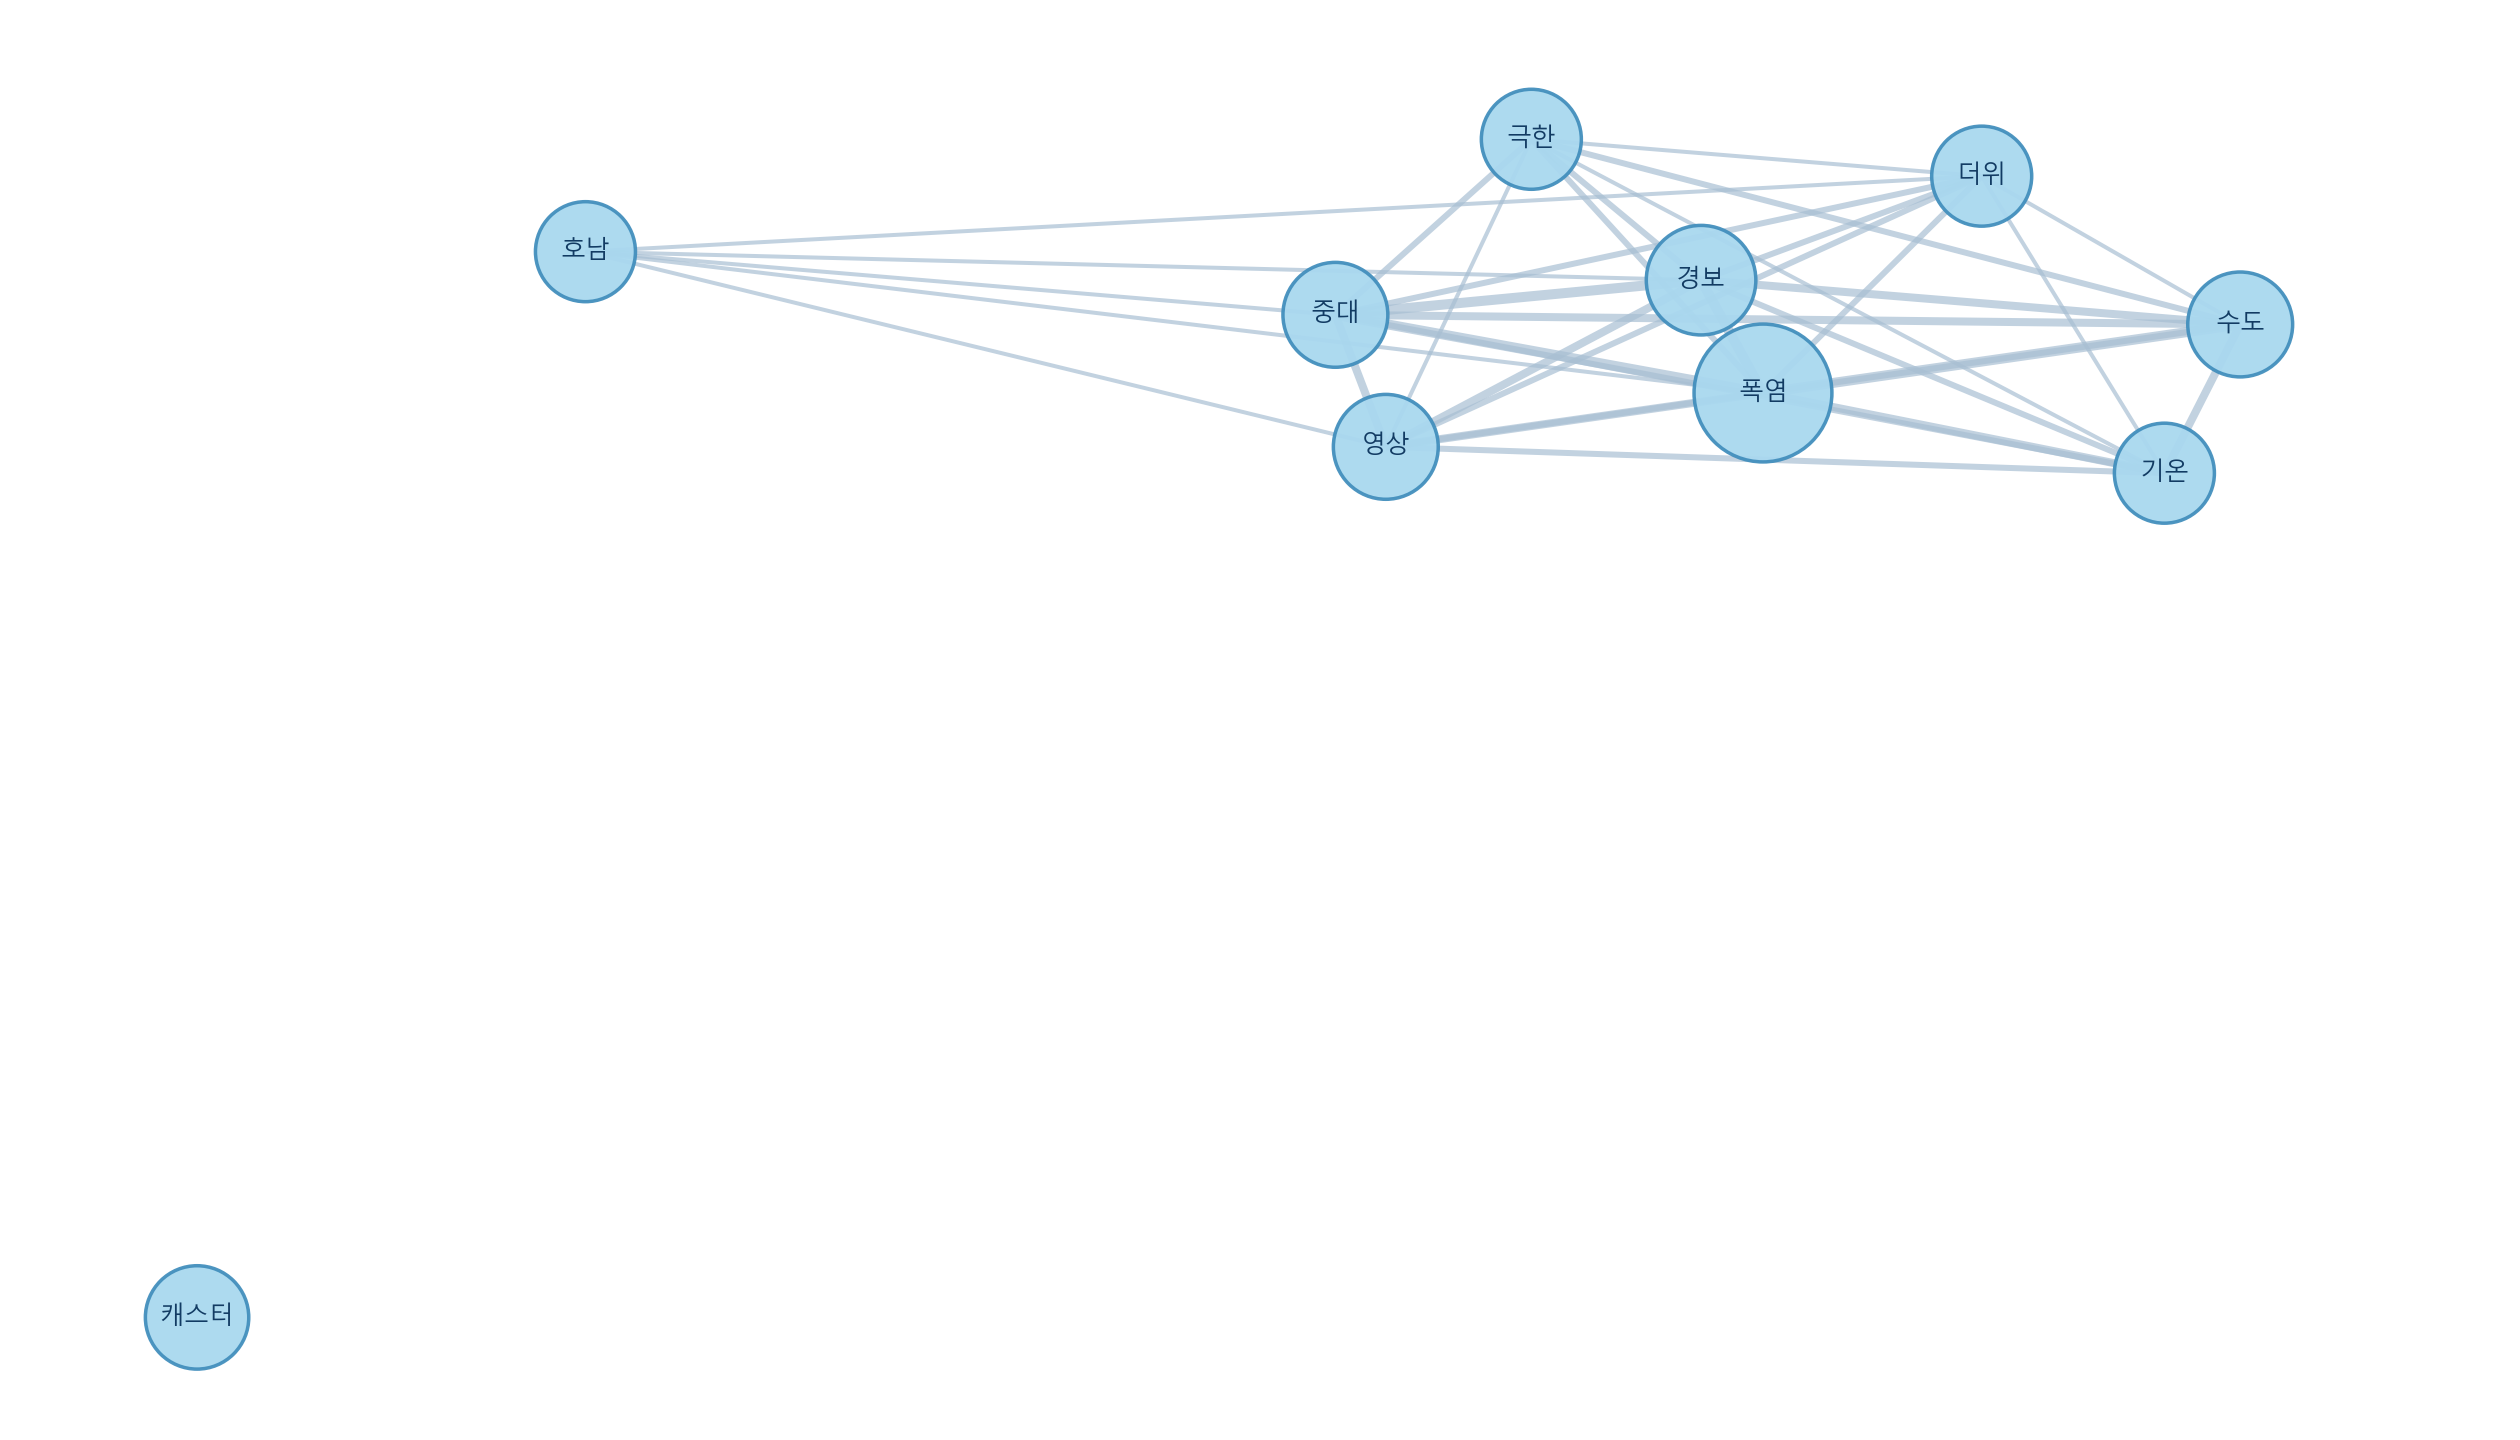
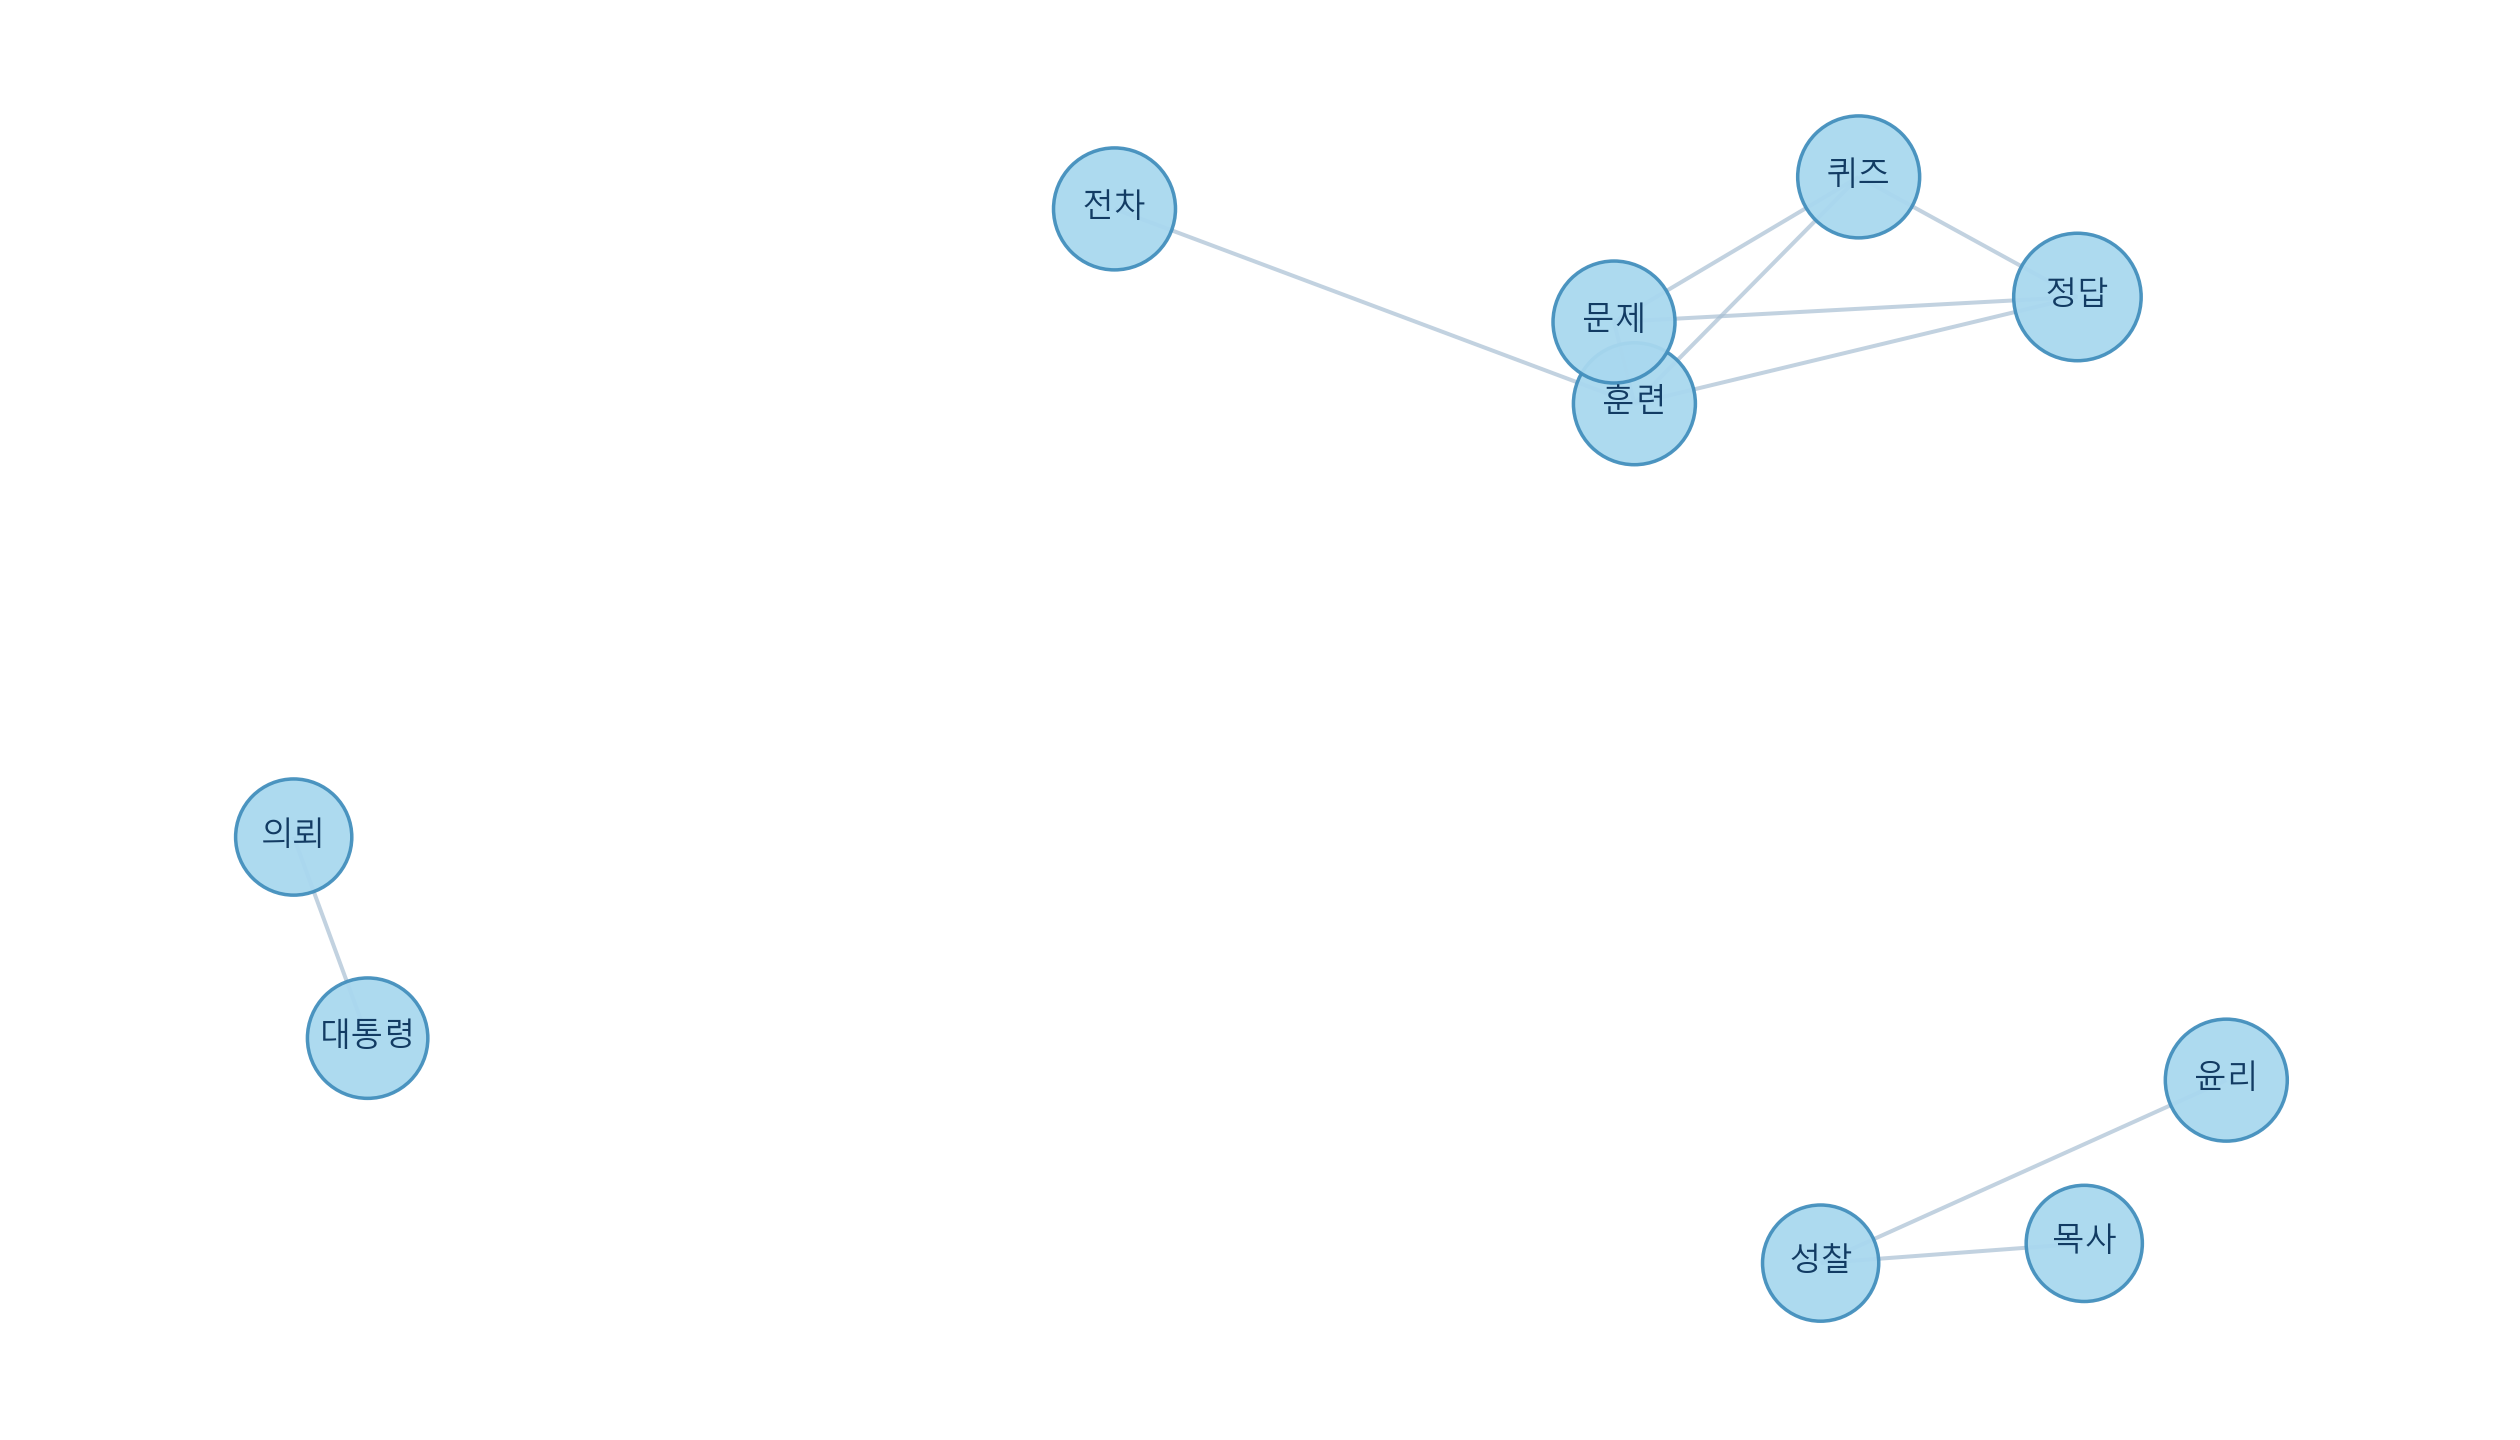
배포 준비

diff --git a/app.py b/app.py
@@ -344,9 +344,9 @@ def generate_keyword_graph_image(news_list, focus_keyword=""):
     # 등장 횟수와 글자 수를 함께 반영해
     # 긴 키워드도 원 안에서 잘 보이도록 한다.
     node_sizes = [
-        900
-        + normalized_graph.nodes[node].get("count", 1) * 160
-        + min(len(node), 8) * 110
+        1400
+        + normalized_graph.nodes[node].get("count", 1) * 220
+        + min(len(node), 8) * 160
         for node in normalized_graph.nodes
     ]
 
@@ -395,7 +395,7 @@ def generate_keyword_graph_image(news_list, focus_keyword=""):
         normalized_graph,
         positions,
         font_family=font_name,
-        font_size=10,
+        font_size=13,
         font_color="#123b63",
     )
 
